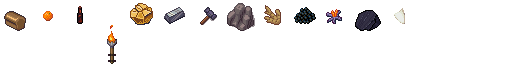
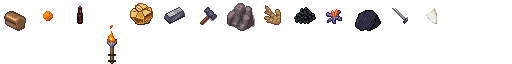
An arming sword, and a reason to choose it over the hammer
The LPC set has a sword, and the comment saying it had none was written
before anybody looked: like the shield, it exists only as a layer on somebody
holding it, so it is cut out of the one frame of the held-prop sheet that
shows it whole and small enough to sit on a tile.

What makes it a choice rather than a second hammer is one line in
gg_guard_power: a weapon now adds to what you turn aside as well as to what
you deal. A hammer hits hardest and defends nothing; a sword gives up a point
of damage and hangs between you and a blow.

Measured, both ways round: a warden in armour loses 11 fights in 20 to a
hammer and 8 to a sword, and an adept shooting at you loses 11 to a sword and
8 to a hammer. The numbers cross, which is what a choice means - and the test
fails if either weapon becomes strictly better.

Sable sells one, dearer than the hammer, and a warden drops one about a third
of the time.

Claude-Session: https://claude.ai/code/session_016tNvngm7oRFhDFWmKjwpkt

Changed region(s): [[0.75, 0.125, 0.875, 0.375], [0.8438, 0.3438, 0.875, 0.375]]

diff --git a/tests/test_gigantima.c b/tests/test_gigantima.c
@@ -4932,6 +4932,13 @@ static void each_kind_of_creature_needs_a_different_answer(void) {
             CHECK(!same, "%s and %s fight identically", a->id, b->id);
         }
 
+    // Arms are a choice, and the choice shows in the fight. A hammer hits
+    // hardest, a sword keeps you alive, and a stone reaches - so what beats
+    // one creature is not what beats another.
+    const int sword_vs_warden = duel("WARDEN", GG_ITEM_SWORD, true);
+    const int sword_vs_adept = duel("ADEPT", GG_ITEM_SWORD, true);
+    const int hammer_vs_adept_close = duel("ADEPT", GG_ITEM_HAMMER, true);
+
     // A warden is armour. A stone will not get through it and a hammer will,
     // which is the whole reason to carry a real weapon.
     const int stone_vs_warden = duel("WARDEN", GG_ITEM_STONE, true);
@@ -4957,6 +4964,29 @@ static void each_kind_of_creature_needs_a_different_answer(void) {
     // adept is not what beats a warden.
     CHECK(close_vs_adept != hammer_vs_warden || stand_vs_adept != stone_vs_warden,
           "every fight in this world has the same shape");
+
+    SDL_Log("gigantima: a warden loses %d of 20 to a sword and a hammer %d; "
+            "an adept loses %d to a sword and %d to a hammer",
+            sword_vs_warden, hammer_vs_warden, sword_vs_adept,
+            hammer_vs_adept_close);
+
+    // The hammer is the answer to armour: it does more damage, and against
+    // something with a guard of five that is what tells.
+    CHECK(hammer_vs_warden > sword_vs_warden,
+          "a sword does as well against armour as a hammer (%d against %d)",
+          sword_vs_warden, hammer_vs_warden);
+
+    // And the sword is the answer to something that hits back hard: what it
+    // turns aside is worth more than the damage it gives up.
+    CHECK(sword_vs_adept > hammer_vs_adept_close,
+          "a sword is no better than a hammer against something shooting at "
+          "you (%d against %d)", sword_vs_adept, hammer_vs_adept_close);
+
+    // A weapon that turns a blow is the only reason that last line is true, so
+    // it is worth stating: a sword raises what you turn aside and a hammer does
+    // not.
+    CHECK(GG_ITEM[GG_ITEM_SWORD].guard > 0 && GG_ITEM[GG_ITEM_HAMMER].guard == 0,
+          "the sword and the hammer defend alike");
 
     restore_bestiary();
 }
@@ -7056,6 +7086,12 @@ static void a_thing_can_be_bought_and_a_thing_can_be_sold(void) {
     if (sable < 0) { gg_game_free(&g); restore_dialogue(); return; }
 
     // --- buying --------------------------------------------------------------
+    // What was in the pack before the shopping, so the bill can be checked
+    // against what actually changed hands.
+    int kept[GG_ITEM_COUNT];
+    for (int k = 0; k < GG_ITEM_COUNT; k++)
+        kept[k] = gg_pack_count(&g, (gg_item_id)k);
+
     const int purse = gg_pack_count(&g, GG_ITEM_GOLD);
     CHECK(purse > 0, "a journey begins penniless");
     CHECK(gg_pack_count(&g, GG_ITEM_SHIELD) == 0, "it begins with a shield too");
@@ -7067,11 +7103,21 @@ static void a_thing_can_be_bought_and_a_thing_can_be_sold(void) {
     CHECK(gg_pack_count(&g, GG_ITEM_HAMMER) == 1, "and %d hammers",
           gg_pack_count(&g, GG_ITEM_HAMMER));
 
+    // What was spent is exactly what was bought - whatever that turns out to
+    // be. Written from the pack rather than from a list, so adding a thing to
+    // Sable's stock does not make this test wrong.
     const int after = gg_pack_count(&g, GG_ITEM_GOLD);
     const int spent = purse - after;
-    CHECK(spent == gg_price_to_buy(GG_ITEM_SHIELD) + gg_price_to_buy(GG_ITEM_HAMMER),
-          "a shield and a hammer cost %d gold, and they are worth %d", spent,
-          gg_price_to_buy(GG_ITEM_SHIELD) + gg_price_to_buy(GG_ITEM_HAMMER));
+    int worth = 0;
+    for (int k = 0; k < GG_ITEM_COUNT; k++) {
+        if (k == GG_ITEM_GOLD) continue;
+        const int more = gg_pack_count(&g, (gg_item_id)k) - kept[k];
+        if (more > 0 && GG_ITEM[k].value >= GG_ITEM[GG_ITEM_GOLD].value)
+            worth += gg_price_to_buy((gg_item_id)k) * more;
+    }
+    CHECK(spent == worth, "the purse is %d lighter and what he handed over is "
+          "worth %d", spent, worth);
+    CHECK(spent > 0, "nothing was bought at all");
 
     // Asking again buys nothing: a merchant with sense does not sell a second
     // shield to somebody wearing one.

diff --git a/tools/make_atlas.py b/tools/make_atlas.py
@@ -190,6 +190,7 @@ FOOD = f"{SMALL}/Food"
 ORES = f"{SMALL}/Ores & Ingots"
 TOOLS = f"{SMALL}/Tools, Smithing.png"
 SHIELD_PROP = "Characters/Props/Shield 01 - Heater Shield"
+SWORD_PROP  = "Characters/Props/Sword 01 - Arming Sword"
 
 
 # What using an item does. Mirrored into gg_ids.h.
@@ -260,10 +261,10 @@ ITEMS = [
          "a bar of silver", "bars of silver", "silver",
          weight=150, value=200),
 
-    # Arms. This art set has no swords that stand on their own - the sword is
-    # only ever a layer on a swinging character - so what the vale fights with
-    # is what the vale has: a smith's hammer, a stone, and a shield cut out of
-    # the one frame that shows it whole.
+    # Arms. A sword and a shield exist in this set only as layers on somebody
+    # holding them, so both are cut out of the one frame of a held-prop sheet
+    # that shows the thing whole and small enough to sit on a tile. Beside them,
+    # what the vale actually has: a smith's hammer and a stone to throw.
     item("HAMMER", TOOLS, 8, 0, 1, 1,
          "a smith's hammer", "smith's hammers", "hammer",
          weight=350, stack=False, slot=SLOT_WEAPON, damage=5, value=60),
@@ -283,6 +284,17 @@ ITEMS = [
     item("ASH",        f"{ORES}/Ore, Coal.png",       0, 2, 1, 1,
          "a pinch of sulphurous ash", "pinches of sulphurous ash", "ash",
          weight=2, value=4),
+
+    # A blade is lighter than a hammer and hangs between you and a blow: less
+    # damage, and the only weapon that adds to what it turns aside. That is the
+    # choice - a hammer for something in armour, a sword for something that is
+    # trying to kill you back.
+    item("SWORD", "", 0, 2, 1, 1,
+         "an arming sword", "arming swords", "sword",
+         weight=200, stack=False, slot=SLOT_WEAPON, damage=4, guard=2, value=110,
+         layers=[f"{SWORD_PROP}/Combat 1h - Idle.png",
+                 f"{SWORD_PROP}/Steel/Combat 1h - Idle.png"],
+         frame=(2, 3)),
 
     item("SHIELD", "", 0, 2, 1, 1,
          "a wooden shield", "wooden shields", "shield",

diff --git a/src/core/gg_combat.c b/src/core/gg_combat.c
@@ -46,7 +46,12 @@ int gg_attack_power(const gg_game *g, int who) {
 int gg_guard_power(const gg_game *g, int who) {
     if (who < 0 || who >= g->actors) return 0;
     const gg_item_def *a = held(g, who, GG_SLOT_ARMOUR);
-    return g->actor[who].guard + (a ? a->guard : 0);
+    // And what is in the other hand. A blade hangs between you and a blow as
+    // well as making one, which is the whole difference between a sword and a
+    // hammer: the hammer hits harder and the sword keeps you alive. Most
+    // weapons have no guard at all and add nothing here.
+    const gg_item_def *w = held(g, who, GG_SLOT_WEAPON);
+    return g->actor[who].guard + (a ? a->guard : 0) + (w ? w->guard : 0);
 }
 
 int gg_reach(const gg_game *g, int who) {

diff --git a/src/core/gg_ids.c b/src/core/gg_ids.c
@@ -173,6 +173,13 @@ const gg_item_def GG_ITEM[GG_ITEM_COUNT] = {
         GG_USE_NONE, 0, GG_SLOT_NONE, 0, 4,
         0, 0, 0,
     },
+    [GG_ITEM_SWORD] = {
+        "SWORD",
+        "an arming sword", "arming swords", "sword",
+        1, 1, 200, 0,
+        GG_USE_NONE, 0, GG_SLOT_WEAPON, 0, 110,
+        4, 2, 0,
+    },
     [GG_ITEM_SHIELD] = {
         "SHIELD",
         "a wooden shield", "wooden shields", "shield",

diff --git a/src/gfx/gg_atlas.h b/src/gfx/gg_atlas.h
@@ -71,7 +71,8 @@ static const gg_rect GG_ITEM_RECT[GG_ITEM_COUNT] = {
     [GG_ITEM_NIGHTSHADE] = {  288,    0,  32,  32 },
     [GG_ITEM_BLOODMOSS] = {  320,    0,  32,  32 },
     [GG_ITEM_ASH] = {  352,    0,  32,  32 },
-    [GG_ITEM_SHIELD] = {  384,    0,  32,  32 },
+    [GG_ITEM_SWORD] = {  384,    0,  32,  32 },
+    [GG_ITEM_SHIELD] = {  416,    0,  32,  32 },
 };
 
 #define GG_ACTOR_FRAME   64

diff --git a/src/core/gg_ids.h b/src/core/gg_ids.h
@@ -81,6 +81,7 @@ typedef enum {
     GG_ITEM_NIGHTSHADE,
     GG_ITEM_BLOODMOSS,
     GG_ITEM_ASH,
+    GG_ITEM_SWORD,
     GG_ITEM_SHIELD,
     GG_ITEM_COUNT
 } gg_item_id;

diff --git a/docs/PROJECT_STATUS.md b/docs/PROJECT_STATUS.md
@@ -905,6 +905,30 @@ breaking the rule they pin — making every speed equal, clearing line of sight,
 dropping no loot, and putting townsfolk on the other side. Plus a `--shot` frame
 of an exchange of blows, now taken in CI.*
 
+### Arms
+
+Four now: a smith's hammer, an arming sword, a throwing stone and a wooden
+shield. The sword and the shield exist in the LPC set **only as layers on
+somebody holding them**, so both are cut out of the one frame of a held-prop
+sheet that shows the thing whole and small enough to sit on a tile — the same
+trick, and the baker refuses a frame that does not fit rather than squashing it.
+
+**A weapon adds to what you turn aside as well as to what you deal.** That is
+one line in `gg_guard_power` and it is what makes arms a choice rather than a
+ladder:
+
+| | | |
+| --- | --- | --- |
+| hammer | damage 5 | the answer to armour |
+| sword | damage 4, guard 2 | the answer to something hitting back |
+| stone | damage 2, reach 5 | the answer to something you cannot reach |
+
+*Verification: measured, in `each_kind_of_creature_needs_a_different_answer`. A
+warden loses 11 fights in 20 to a hammer and 8 to a sword; an adept loses 11 to
+a sword and 8 to a hammer. The numbers cross, which is what "a choice" means -
+and the test says so both ways round, so a change that makes one weapon
+strictly better fails it.*
+
 ### Trade
 
 Iolo keeps a market stall in the vale and Sable keeps Wyndle's. **One word does
@@ -1661,7 +1685,6 @@ Named plainly, because a reader should not have to infer absence:
 | The story beyond the second | two storylines that interlock, and three small quests beside them. What is missing is a third |
 | Combat depth | blows, initiative, reach, loot and fleeing exist; there are no skills and no criticals |
 | Magic beyond three effects | light, heal and harm. No summoning, no travel, no enchantment, no mana - reagents are the whole cost |
-| Arms | a hammer, a throwing stone and a shield. No swords: this art set has none that stand on their own |
 | Trade | nothing. Items carry a value in copper, and no one buys or sells |
 | Trade in conversation | a topic can give a thing, take a thing and raise a flag, which is enough for a story. Nobody haggles, and no price is ever paid |
 | Composed audio | the sounds are synthesised tones and noise, and the tunes a drone and an arpeggio. The mechanism is finished; the music is placeholder |

diff --git a/docs/COMPLETION_PLAN.md b/docs/COMPLETION_PLAN.md
@@ -358,10 +358,14 @@ here. Nothing is on this list that is not already admitted to somewhere.
       merchant who never said he wanted any; a second shield not sold to
       somebody wearing one; and a penniless customer offered nothing rather than
       refused.*
-- [ ] **Arms worth choosing.** A hammer, a stone and a shield. The LPC set has
-      an arming sword and a heater shield that were never baked.
-      *Verification: a weapon with reach, a weapon with weight, and a choice
-      between them that shows in a fight.*
+- [x] **Arms worth choosing.** An arming sword, cut out of the one frame of the
+      LPC held-prop sheet that shows it whole — and a weapon now adds to what
+      you turn aside as well as to what you deal, which is the whole difference
+      between a blade and a hammer.
+      *Verification: measured three ways. A warden in armour loses 11 fights in
+      20 to a hammer and 8 to a sword; an adept shooting at you loses 11 to a
+      sword and 8 to a hammer; a thrown stone reaches five tiles and beats a
+      warden once in 20. No weapon is strictly better than another.*
 - [ ] **Combat with more than one answer.** Blows, initiative, reach, fleeing
       and loot exist; there are no criticals and no skill in it.
       *Verification: the same fight won two different ways.*
